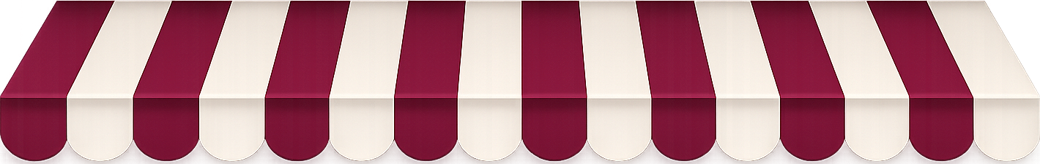
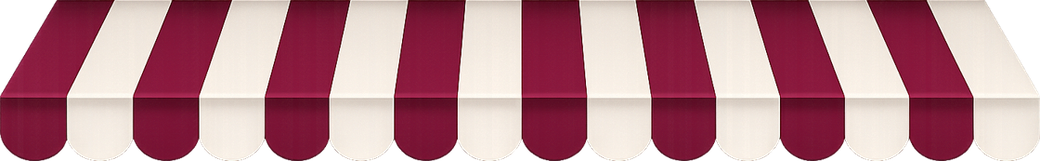
Bon Bon: see-through scalloped awning, same size as old

diff --git a/scripts/build_bonbon.js b/scripts/build_bonbon.js
@@ -100,7 +100,7 @@ h = h.replace('document.getElementById("hname").textContent="Annapoorna · "+o;'
 //      glass globe language dropdown + scalloped awning. Everything BELOW the awning is untouched.
 h = h.replace(
   '<header><button id="back" class="hback" onclick="goOutlets()" title="Change outlet">←</button><div class="logo">A</div><div><h1 id="hname">Sree Annapoorna</h1><div class="sub" id="hsub">Choose your outlet — AI Waiter by Odysra</div></div></header>',
-  '<header class="woodhdr"><button id="back"></button><h1 id="hname"></h1><div id="hsub"></div><img class="woodlogo" src="/logo_web.png" alt="Bon Bon"><button class="langtoggle" onclick="toggleLang()" aria-label="Language"><svg viewBox="0 0 24 24"><circle cx="12" cy="12" r="9.3"/><path d="M2.7 12h18.6"/><path d="M12 2.7a14 14 0 0 1 3.7 9.3 14 14 0 0 1-3.7 9.3 14 14 0 0 1-3.7-9.3A14 14 0 0 1 12 2.7Z"/></svg></button></header>\n  <div class="awnbar"><img src="/awning_web.png" alt=""></div>'
+  '<header class="woodhdr"><button id="back"></button><h1 id="hname"></h1><div id="hsub"></div><img class="woodlogo" src="/logo_web.png" alt="Bon Bon"><button class="langtoggle" onclick="toggleLang()" aria-label="Language"><svg viewBox="0 0 24 24"><circle cx="12" cy="12" r="9.3"/><path d="M2.7 12h18.6"/><path d="M12 2.7a14 14 0 0 1 3.7 9.3 14 14 0 0 1-3.7 9.3 14 14 0 0 1-3.7-9.3A14 14 0 0 1 12 2.7Z"/></svg></button></header>\n  <div class="awnbar"><img src="/awning_web.png?v=3" alt=""></div>'
 );
 // header styles (appended so they override the base header/langbar rules)
 h = h.replace('</style>', `
@@ -139,7 +139,7 @@ function bbBoot(){
   var frame=document.getElementById("shutterframe");
   var sh=document.getElementById("shutter");
   var start=Date.now(),MIN=1900,done=false;   // hold long enough for the slow fade-in + a beat
-  var imgs=["/wood_web.jpg","/logo_web.png","/awning_web.png","/shutter_web.jpg"],left=imgs.length;
+  var imgs=["/wood_web.jpg","/logo_web.png","/awning_web.png?v=3","/shutter_web.jpg"],left=imgs.length;
   function showShutter(){ if(!frame)return;
     var aw=document.querySelector(".awnbar"),ph=document.getElementById("phone");
     if(aw&&ph)frame.style.top=Math.max(0,(aw.getBoundingClientRect().bottom-ph.getBoundingClientRect().top)-1)+"px";

diff --git a/public/bonbon/index.html b/public/bonbon/index.html
@@ -347,7 +347,7 @@
 <body>
 <div id="phone"><div id="bootveil"><img class="bootlogo" src="/logo_web.png" alt="Bon Bon"></div>
   <header class="woodhdr"><button id="back"></button><h1 id="hname"></h1><div id="hsub"></div><img class="woodlogo" src="/logo_web.png" alt="Bon Bon"><button class="langtoggle" onclick="toggleLang()" aria-label="Language"><svg viewBox="0 0 24 24"><circle cx="12" cy="12" r="9.3"/><path d="M2.7 12h18.6"/><path d="M12 2.7a14 14 0 0 1 3.7 9.3 14 14 0 0 1-3.7 9.3 14 14 0 0 1-3.7-9.3A14 14 0 0 1 12 2.7Z"/></svg></button></header>
-  <div class="awnbar"><img src="/awning_web.png" alt=""></div>
+  <div class="awnbar"><img src="/awning_web.png?v=3" alt=""></div>
   <div class="langbar" id="langbar"></div>
   <div id="shutterframe"><div id="shutter"></div></div><div id="wm"></div>
   <div id="chat"></div>
@@ -1552,7 +1552,7 @@ function bbBoot(){
   var frame=document.getElementById("shutterframe");
   var sh=document.getElementById("shutter");
   var start=Date.now(),MIN=1900,done=false;   // hold long enough for the slow fade-in + a beat
-  var imgs=["/wood_web.jpg","/logo_web.png","/awning_web.png","/shutter_web.jpg"],left=imgs.length;
+  var imgs=["/wood_web.jpg","/logo_web.png","/awning_web.png?v=3","/shutter_web.jpg"],left=imgs.length;
   function showShutter(){ if(!frame)return;
     var aw=document.querySelector(".awnbar"),ph=document.getElementById("phone");
     if(aw&&ph)frame.style.top=Math.max(0,(aw.getBoundingClientRect().bottom-ph.getBoundingClientRect().top)-1)+"px";

diff --git a/app/bon-bon/page.tsx b/app/bon-bon/page.tsx
@@ -7,7 +7,7 @@ export default function BonBon() {
     <>
       <style>{`html,body{height:100%;overflow:hidden;overscroll-behavior:none;background:#000}`}</style>
       <iframe
-        src="/bonbon/index.html?v=39"
+        src="/bonbon/index.html?v=41"
         allow="microphone"
         style={{ position: "fixed", inset: 0, width: "100%", height: "100%", border: "none" }}
       />
